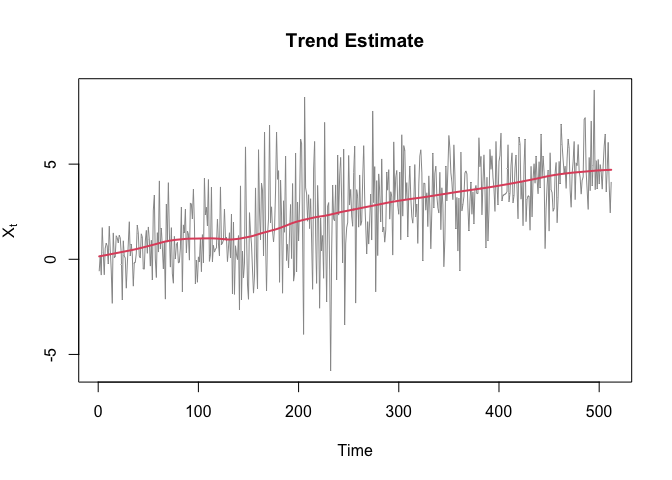
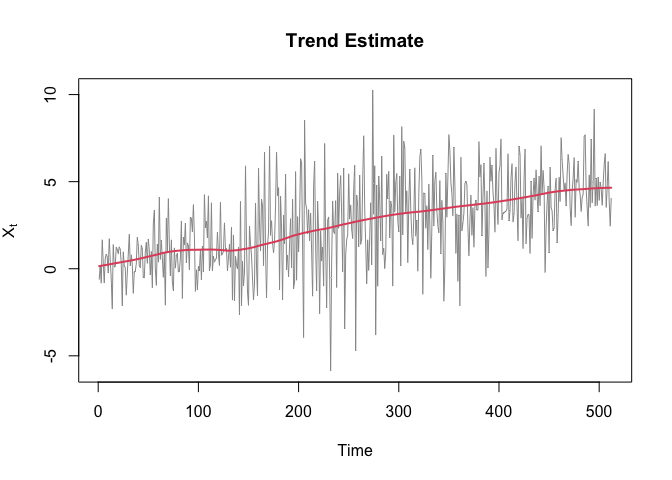
update readme

diff --git a/README.md b/README.md
@@ -33,7 +33,8 @@ To install `TrendLSW` from GitHub:
 ## Usage
 
 For detailed examples, see the help files within the package. We can
-generate a small example for performing trend estimation as follows:
+generate a small example for performing trend and spectrum estimation as
+follows:
 
 ``` r
 
@@ -41,7 +42,7 @@ library(TrendLSW)
 
 set.seed(1)
 
-noise <- rnorm(512)*c(seq(from = 1, to = 3, length = 256),seq(from = 2, to = 1, length = 256))
+noise <- rnorm(512)*c(seq(from = 1, to = 3, length = 256),seq(from = 3, to = 1, length = 256))
 trend <- seq(from = 0, to = 5,length = 512)
 x <- trend + noise
 ```
